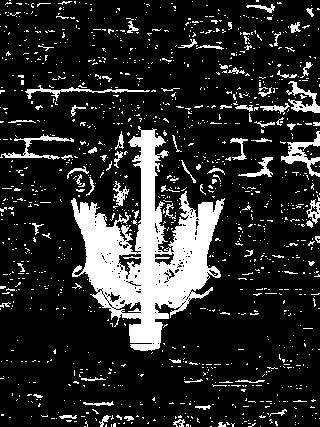
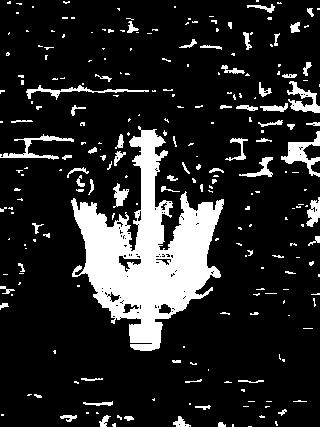
added test analysis

diff --git a/segmentation-tests/test.py b/segmentation-tests/test.py
@@ -10,11 +10,11 @@ from scribbles import scribbles
 import os
 
 
-def make_pixels(index, image_url):
+def make_pixels(index, image_url, lambda_const, sigma_const):
     img = mpimg.imread('../images-320/' + image_url)
     img_shape = img.shape
     obj_scribble, bkg_scribble = scribbles[index]()
-    underlying_graph = image2graph(img, obj_scribble, bkg_scribble)
+    underlying_graph = image2graph(img, obj_scribble, bkg_scribble, lambda_const, sigma_const)
     start = time.time()
     flow = underlying_graph.dinic()
     one_item = underlying_graph.min_cut()
@@ -61,20 +61,91 @@ def analyze(true_segments, predicted_segments):
 
 
 def analyze_all():
+    array_of_lambdas = [1, 30, 100]
+    array_of_sigmas = [1, 40, 100]
     directory = '../images-320'
     images = os.listdir(directory)
     images.sort()
+    results_of_correct_pixles = []
+    results_of_jacard_metrics = []
     for idx, image_url in enumerate(images):
-        make_pixels(idx, image_url)
-        true_segments = mpimg.imread('../image-segments-320/'+image_url.split('-')[0]+'-320.jpg')
-        predicted_segments = mpimg.imread('../images-segments-prediction-320/'+image_url)
-        true_segments = true_segments[:, :, :1].flatten().reshape(predicted_segments.shape)
-        correct_pixels, Jaccard = analyze(true_segments, predicted_segments)
-        # TODO write in file too
-        print('Правильно угаданных пикселей: ', correct_pixels)
-        print('Мера Жаккара: ', Jaccard)
-        print('--------------------------------------------------------')
+        for lambda_const in array_of_lambdas:
+            for sigma_const in array_of_sigmas:
+                make_pixels(idx, image_url, lambda_const, sigma_const)
+                true_segments = mpimg.imread('../image-segments-320/' + image_url.split('-')[0] + '-320.jpg')
+                predicted_segments = mpimg.imread('../images-segments-prediction-320/' + image_url)
+                true_segments = true_segments[:, :, :1].flatten().reshape(predicted_segments.shape)
+                correct_pixels, Jaccard = analyze(true_segments, predicted_segments)
+                # TODO write in file too
+                print('Правильно угаданных пикселей: ', correct_pixels)
+                print('Мера Жаккара: ', Jaccard)
+                print('--------------------------------------------------------')
+
+def analyze_lambda():
+    array_of_lambdas = [1, 30, 100]
+    directory = '../images-320'
+    images = os.listdir(directory)
+    images.sort()
+    results_of_correct_pixles = []
+    results_of_jacard_metrics = []
+    for lambda_const in array_of_lambdas:
+        for idx, image_url in enumerate(images):
+            make_pixels(idx, image_url, lambda_const, 40)
+            true_segments = mpimg.imread('../image-segments-320/' + image_url.split('-')[0] + '-320.jpg')
+            predicted_segments = mpimg.imread('../images-segments-prediction-320/' + image_url)
+            true_segments = true_segments[:, :, :1].flatten().reshape(predicted_segments.shape)
+            correct_pixels, Jaccard = analyze(true_segments, predicted_segments)
+            # TODO write in file too
+            print('Правильно угаданных пикселей: ', correct_pixels)
+            print('Мера Жаккара: ', Jaccard)
+            print('--------------------------------------------------------')
+        file = open('../segmentation-tests/analyzeLambda.txt', 'w')
+        file.write('--------------------------------------------------------')
+        file.write('Значение лямбда: ' + str(lambda_const), '\n')
+        file.write('Минимальное значение правильно угаданных пикселей: ' + str(min(results_of_correct_pixles)), '\n')
+        file.write('Максимальное значение правильно угаданных пикселей: ' + str(max(results_of_correct_pixles)), '\n')
+        file.write('Среднее значение правильно угаданных пикселей: ' + str(
+            sum((int(results_of_correct_pixles[i]) for i in range(0, int(len(results_of_correct_pixles))))) / len(
+                results_of_correct_pixles)), '\n')
+        file.write('Минимальное значение меры Жаккара: ' + str(min(results_of_jacard_metrics)), '\n')
+        file.write('Максимальное значение меры Жаккара: ' + str(max(results_of_jacard_metrics)), '\n')
+        file.write('Среднее значение меры Жаккара: ' + str(
+            sum((int(results_of_jacard_metrics[i]) for i in range(0, int(len(results_of_jacard_metrics))))) / len(
+                results_of_jacard_metrics)), '\n')
+
+def analyze_sigma():
+    array_of_sigmas = [1, 40, 100]
+    directory = '../images-320'
+    images = os.listdir(directory)
+    images.sort()
+    for sigma_const in array_of_sigmas:
+        results_of_correct_pixles = []
+        results_of_jacard_metrics = []
+        for idx, image_url in enumerate(images):
+            make_pixels(idx, image_url, 30, sigma_const)
+            true_segments = mpimg.imread('../image-segments-320/' + image_url.split('-')[0] + '-320.jpg')
+            predicted_segments = mpimg.imread('../images-segments-prediction-320/' + image_url)
+            true_segments = true_segments[:, :, :1].flatten().reshape(predicted_segments.shape)
+            correct_pixels, Jaccard = analyze(true_segments, predicted_segments)
+            # TODO write in file too
+            print('Правильно угаданных пикселей: ', correct_pixels)
+            results_of_correct_pixles.append(correct_pixels)
+            print('Мера Жаккара: ', Jaccard)
+            results_of_jacard_metrics.append(Jaccard)
+            print('--------------------------------------------------------')
+        file = open('../segmentation-tests/analyzeSigma.txt', 'w')
+        file.write('--------------------------------------------------------')
+        file.write('Значение сигма: '+str(sigma_const), '\n')
+        file.write('Минимальное значение правильно угаданных пикселей: ' + str(min(results_of_correct_pixles)), '\n')
+        file.write('Максимальное значение правильно угаданных пикселей: ' + str(max(results_of_correct_pixles)), '\n')
+        file.write('Среднее значение правильно угаданных пикселей: ' + str(sum((int(results_of_correct_pixles[i]) for i in range(0, int(len(results_of_correct_pixles)))))/len(results_of_correct_pixles)), '\n')
+        file.write('Минимальное значение меры Жаккара: ' + str(min(results_of_jacard_metrics)), '\n')
+        file.write('Максимальное значение меры Жаккара: ' + str(max(results_of_jacard_metrics)), '\n')
+        file.write('Среднее значение меры Жаккара: ' + str(
+            sum((int(results_of_jacard_metrics[i]) for i in range(0, int(len(results_of_jacard_metrics))))) / len(
+                results_of_jacard_metrics)), '\n')
 
 
-analyze_all()
+analyze_lambda()
+analyze_sigma()
 

diff --git a/image2graph.py b/image2graph.py
@@ -12,8 +12,8 @@ def laplace(x):
 # TODO need to analyze for best params
 bins = 10
 step = math.ceil(256 / bins)
-lambda_const = 50
-sigma_const = 50
+# lambda_const = 50
+# sigma_const = 50
 epsilon = 1e-4
 K = 20000000
 
@@ -28,7 +28,7 @@ def generate_probs(img, interest):
     return hist
 
 
-def image2graph(img, obj, bkg):
+def image2graph(img, obj, bkg, lambda_const, sigma_const):
     number_of_nodes = len(img.ravel())
     number_of_rows = len(img)
     number_of_cols = len(img[0])
